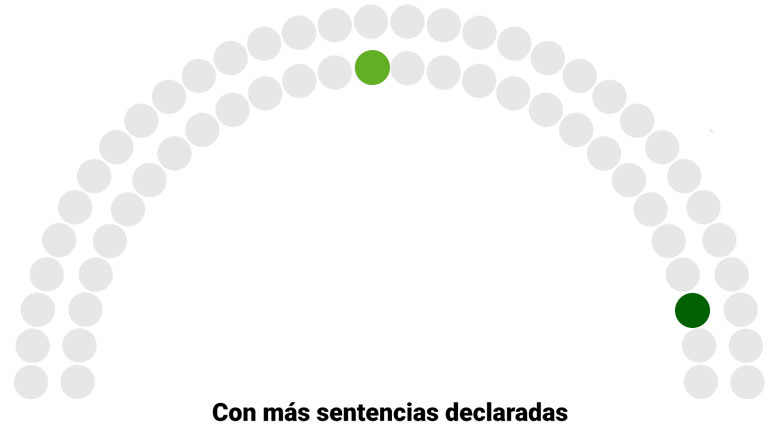
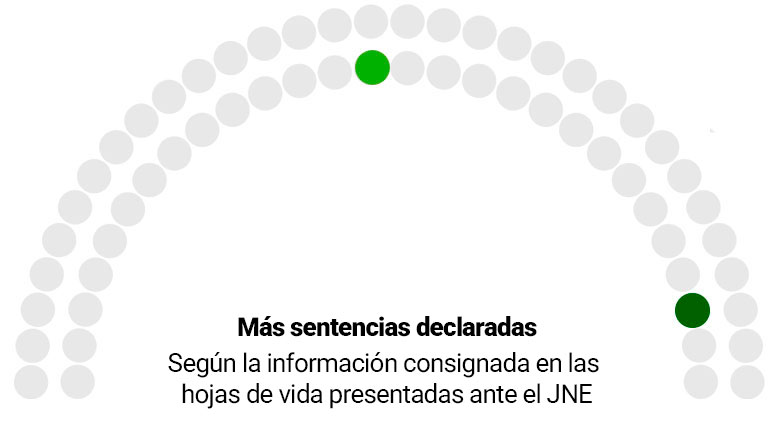
cambios

Changed region(s): [[0.2171, 0.8239, 0.7752, 1.0], [0.3101, 0.7324, 0.7132, 0.7934], [0.4341, 0.1221, 0.5271, 0.2136]]

diff --git a/js/main.js b/js/main.js
@@ -676,6 +676,29 @@ const PX_SEN10_PEOPLE = [
   },
 ];
 
+// ── PERSONAS SIN ESTUDIOS UNIVERSITARIOS (pxs-9 senadores) ───────────────────
+// Editable manualmente: agrega, quita o cambia el orden de los objetos
+const PX_SEN9_ESTUDIOS_PEOPLE = [
+  {
+    foto:    './img/fotos-candidatos/senadores/serafin-lujan.png',
+    nombre:  'Serafín Andrés Luján',
+    partido: 'JUNTOS POR EL PERU',
+    display: 'Juntos por el Perú',
+  },
+  {
+    foto:    './img/fotos-candidatos/juntos-por-el-peru/jose-castillo-terrones.png',
+    nombre:  'José Mercedes Castillo Terrones',
+    partido: 'JUNTOS POR EL PERU',
+    display: 'Juntos por el Perú',
+  },
+  {
+    foto:    './img/fotos-candidatos/juntos-por-el-peru/andres-avelino-ramos-huillcas.png',
+    nombre:  'Andrés Avelino Ramos Huillcas',
+    partido: 'JUNTOS POR EL PERU',
+    display: 'Juntos por el Perú',
+  },
+];
+
 function renderPxScene8(tipo) {
   const sceneId = tipo === 'senador' ? 'pxs-5' : 'pxs-8';
   const scene = document.getElementById(sceneId);
@@ -706,15 +729,13 @@ function renderPxScene8(tipo) {
   card.style.boxShadow   = 'none';
   card.style.maxWidth    = '500px';
 
-  // Senador: cards for senators with most declared sentences
-  const senConSentencias = (typeof candidatos !== 'undefined' ? candidatos : [])
-    .filter(c => c.tipoCandidatura === 'senador' && c.delitos)
-    .sort((a, b) => {
-      const numA = parseInt(((a.sentencias || '').match(/(\d+)\s*sentencia/i) || [])[1] || '1');
-      const numB = parseInt(((b.sentencias || '').match(/(\d+)\s*sentencia/i) || [])[1] || '1');
-      return numB - numA;
-    })
-    .slice(0, 2);
+  // Senador: candidatos destacados con sentencias declaradas
+  const PX_SEN_SENTENCIAS_NAMES = [
+    'Walter Francisco Gago Rodríguez',
+    'Percy Herbert Osorio Palpan'
+  ];
+  const allSenadores = (typeof candidatos !== 'undefined' ? candidatos : []).filter(c => c.tipoCandidatura === 'senador');
+  const senConSentencias = PX_SEN_SENTENCIAS_NAMES.map(name => allSenadores.find(c => c.nombre === name)).filter(Boolean);
 
   const cardsHtml = senConSentencias.map(c => {
     const p = (typeof PARTIDOS !== 'undefined' && PARTIDOS[c.partido]) || {};
@@ -828,6 +849,35 @@ function setPxFiltro(tipo, btn) {
         } else {
           if (grid) grid.remove();
           if (wrap6) { wrap6.style.flexDirection = ''; wrap6.style.alignItems = ''; }
+        }
+      }
+      // People grid para pxs-9 senador (Sin estudios universitarios)
+      if (id === 'pxs-9') {
+        const wrap9 = scene.querySelector('.px-card-wrap');
+        let grid9 = scene.querySelector('.px-people-grid');
+        if (tipo === 'senador') {
+          if (!grid9 && wrap9) {
+            grid9 = document.createElement('div');
+            grid9.className = 'px-people-grid';
+            wrap9.appendChild(grid9);
+            wrap9.style.flexDirection = 'column';
+            wrap9.style.alignItems    = 'center';
+          }
+          if (grid9) {
+            grid9.innerHTML = PX_SEN9_ESTUDIOS_PEOPLE.map(p => {
+              const col = (PARTIDOS[p.partido] || {}).color || '#888';
+              return `<div class="px-person">
+                <div class="px-person-avatar" style="border-color:${col};background:${col};">
+                  <img src="${p.foto}" alt="${p.nombre}">
+                </div>
+                <div class="px-person-nombre">${p.nombre}</div>
+                <div class="px-person-partido" style="color:${col};">${p.display || p.partido}</div>
+              </div>`;
+            }).join('');
+          }
+        } else {
+          if (grid9) grid9.remove();
+          if (wrap9) { wrap9.style.flexDirection = ''; wrap9.style.alignItems = ''; }
         }
       }
     });